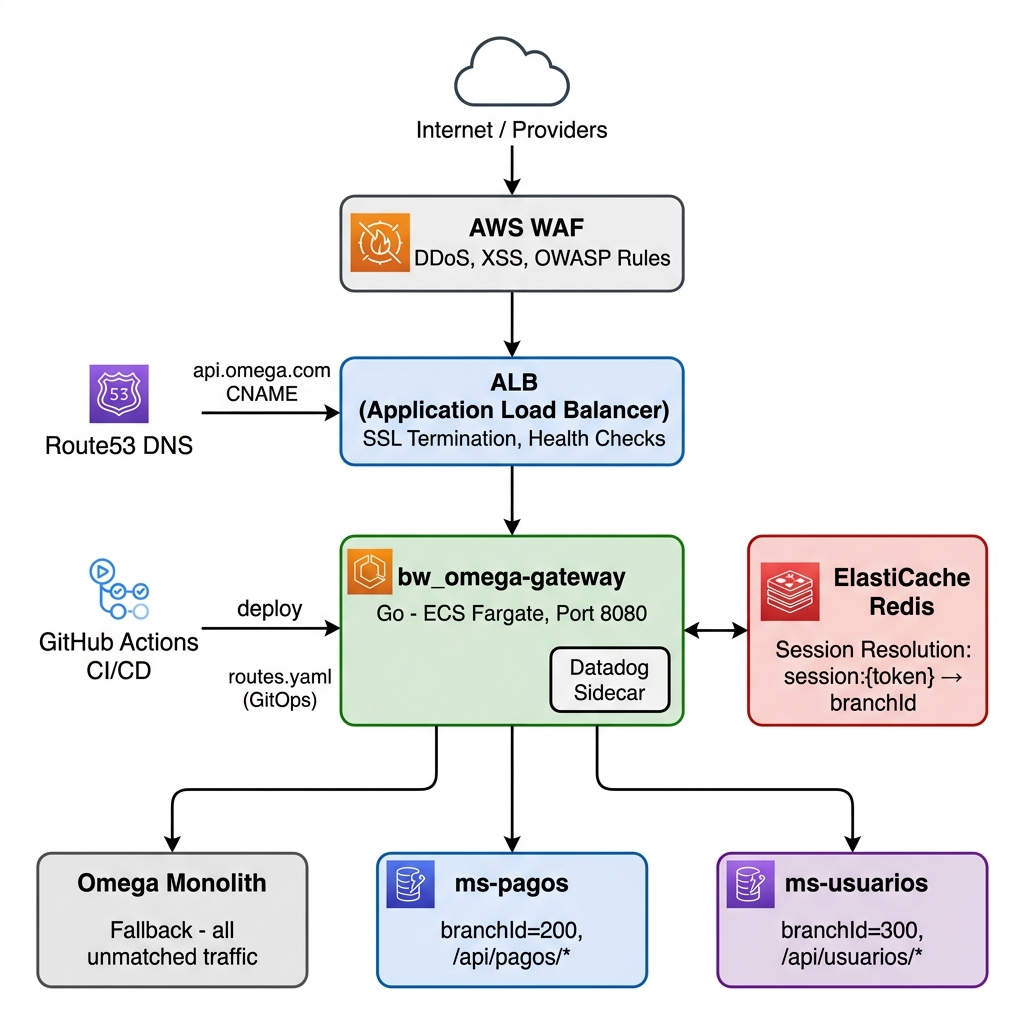
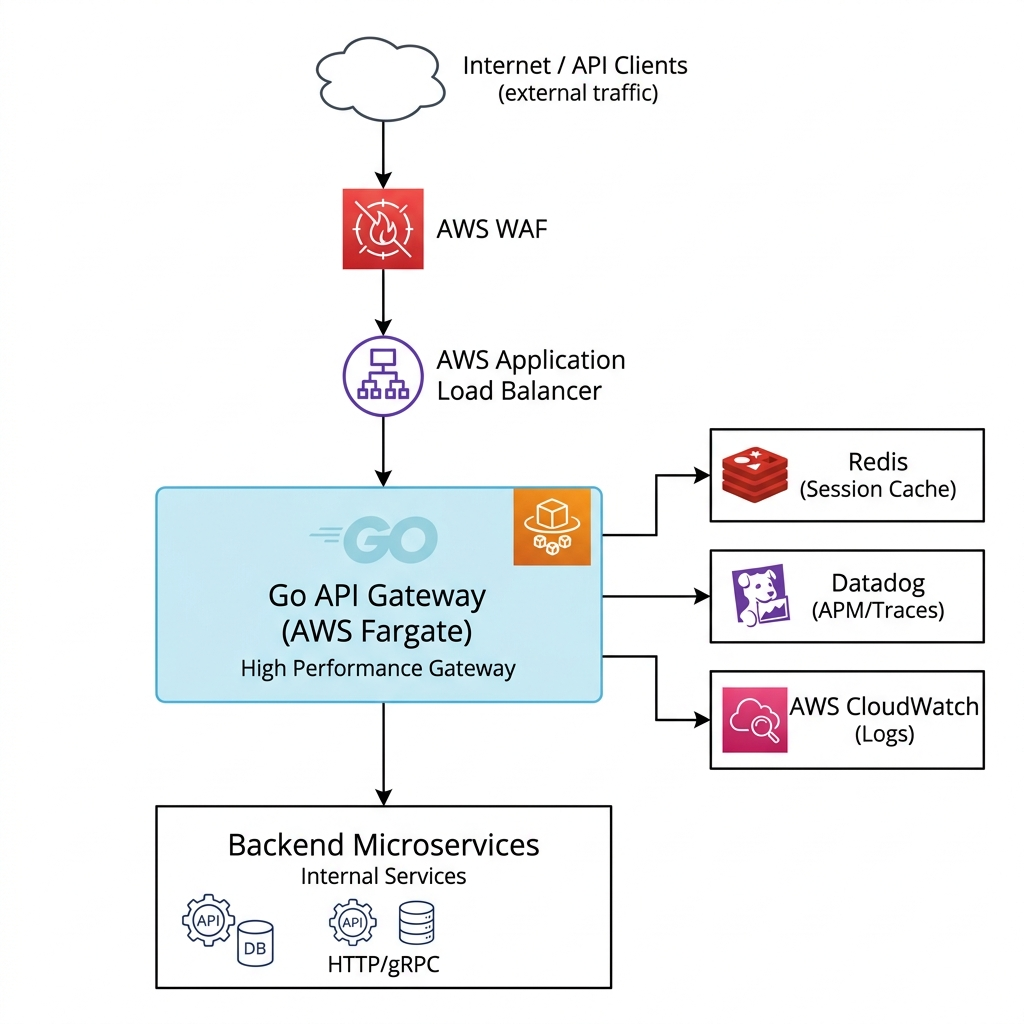
docs: add CloudWatch logs integration to architecture diagrams

diff --git a/Documentación Productos/Documentación Tecnica/POCs/DEV-1477-POC-Omega-gateway/gateway_docs/01_contexto_y_arquitectura.md b/Documentación Productos/Documentación Tecnica/POCs/DEV-1477-POC-Omega-gateway/gateway_docs/01_contexto_y_arquitectura.md
@@ -45,6 +45,7 @@ flowchart TD
         end
 
         REDIS["🔴 ElastiCache Redis\nResolución de sesión:\nsession:{token} → branchId"]
+        CW["📝 Amazon CloudWatch\nApplication Logs (awslogs)"]
     end
 
     subgraph Backends["Destinos"]
@@ -63,6 +64,7 @@ flowchart TD
     ALB --> GW
     GW <-->|GET session:token| REDIS
     GW --> DD
+    GW -->|Logs| CW
 
     GW -->|"branchId no match\no sin branchId"| OMEGA
     GW -->|"branchId=200\n+ /api/pagos/*"| PAGOS
